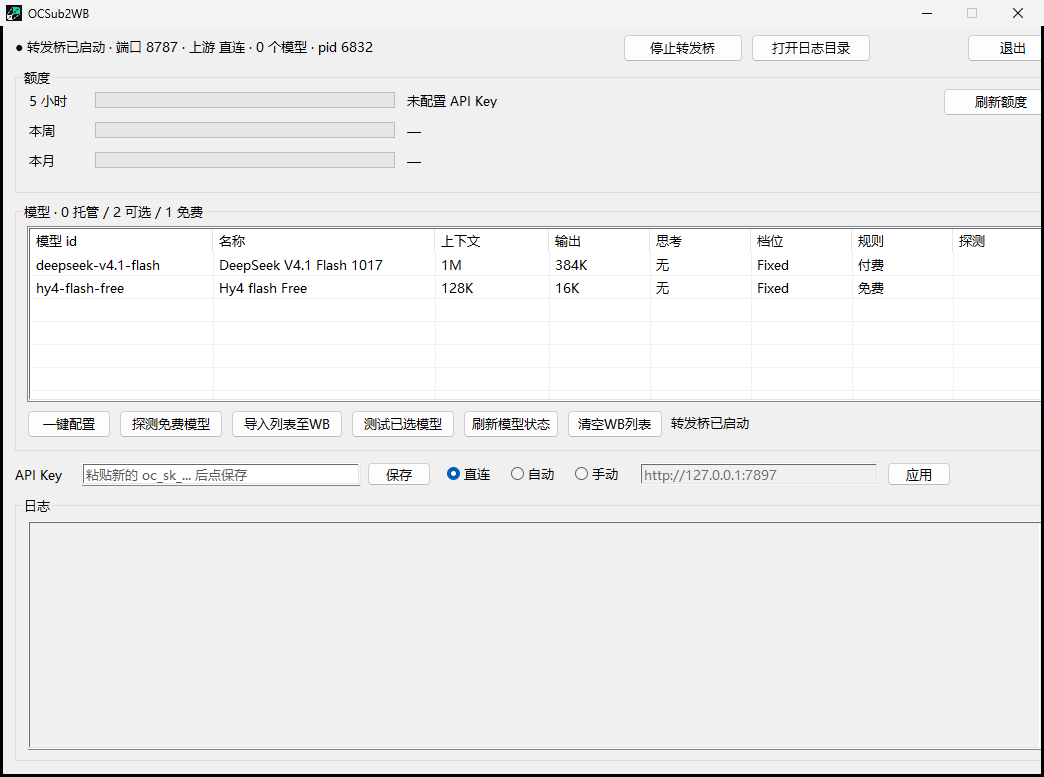
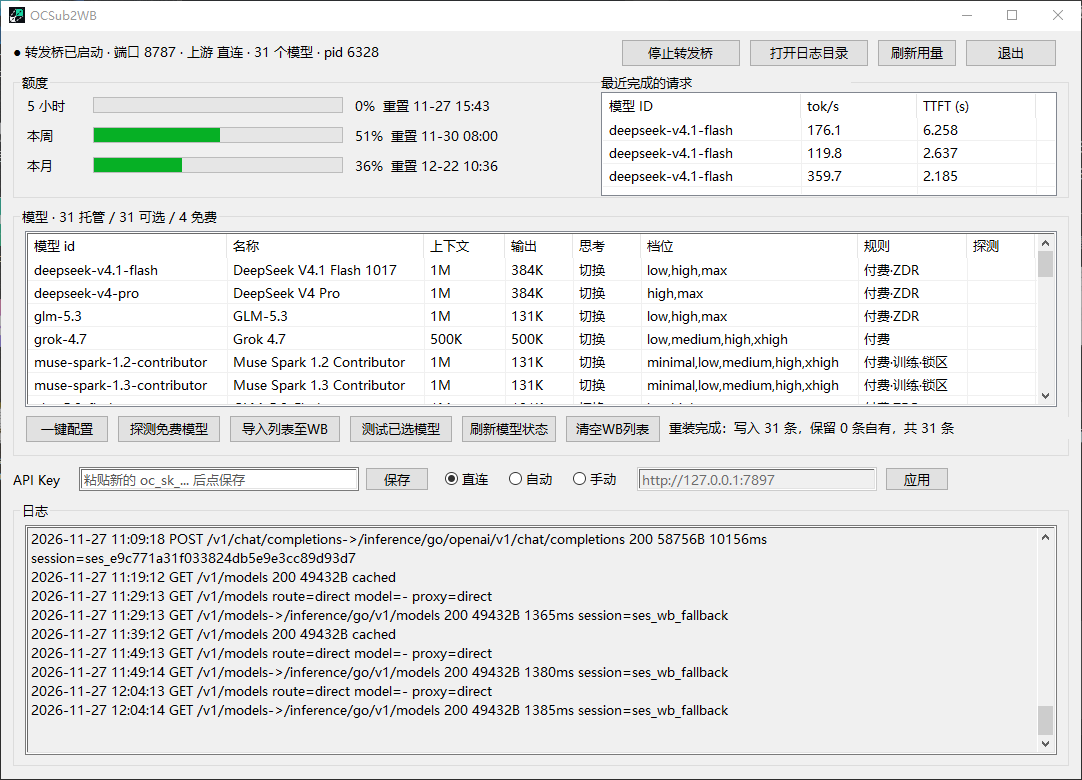
Refresh v2.1.0 documentation and runtime screenshot
Rewrite the quick start, add an operating guide, and record the toolchain shipped in the Windows release. Replace the panel preview with the user-supplied runtime capture.

Changed region(s): [[0.0, 0.0, 1.0, 1.0]]

diff --git a/README.md b/README.md
@@ -1,114 +1,52 @@
 <div align="center">
-  <img src="./assets/icon.png" width="88" height="88" alt="">
+  <img src="./assets/icon.png" width="80" height="80" alt="">
   <h1>OCSub2WB</h1>
-  <p>在 Windows 上，把 WorkBuddy 接到你的 OpenCode Go 订阅。</p>
-  <p>
-    <a href="https://github.com/869Nitro/OCSub2WB/releases/latest"><strong>下载 Windows x64 便携包</strong></a>
-    &nbsp;·&nbsp; <a href="#快速开始">快速开始</a>
-    &nbsp;·&nbsp; <a href="#常见问题">常见问题</a>
-  </p>
+  <p>在 Windows 上，将 WorkBuddy 的自定义模型接入自己的 OpenCode Go 订阅。</p>
+  <p><a href="https://github.com/869Nitro/OCSub2WB/releases/latest"><strong>下载 Windows x64 便携包</strong></a> · <a href="#快速开始">快速开始</a> · <a href="https://github.com/869Nitro/OCSub2WB/blob/main/docs/usage.md">使用手册</a></p>
 </div>
 
 ## 快速开始
 
-准备好 WorkBuddy 和自己的 [OpenCode Go API Key](https://opencode.ai/docs/console/go/)。面板可以使用 WorkBuddy 自带的 Python。WorkBuddy **5.11.3.43806934-ecace0f7** 已通过转发验证。
+准备 Windows x64、已安装并登录的 WorkBuddy，以及自己的 OpenCode Go API Key。面板可以使用 WorkBuddy 自带的 Python，项目已用 WorkBuddy 5.11.3 验证转发。[OpenCode Go 订阅与 Key](https://opencode.ai/docs/console/go/#how-it-works)
 
-1. **打开 WorkBuddy 并登录。**
-2. **下载并解压 ZIP。** 打开其中的 `OCSub2WB.exe`。两个 `.py` 文件和 EXE 放在同一目录。
-3. **点「启动转发桥」。** 等面板显示转发桥已启动，粘贴 OpenCode Go Key，点「保存」。如果访问 OpenCode 需要本机代理，先设置[上游代理](#上游代理)。
-4. **点「一键配置」。** 回到 WorkBuddy，在「设置 → 模型」选择 OpenCode 分组里的模型，发一条消息。
+1. 在 GitHub 发布页的 **Assets** 中下载 `OCSub2WB-v2.1.0-win64.zip`，完整解压到可写目录。[v2.1.0 发布页](https://github.com/869Nitro/OCSub2WB/releases/tag/v2.1.0)
+2. 打开 WorkBuddy，再运行 `OCSub2WB.exe`。让 EXE 和包内的两个 `.py` 文件保持在同一目录。
+3. 在面板点 **启动转发桥**，等状态显示已启动。把 OpenCode Go Key 粘贴到 **API Key** 输入框，点 **保存**。需要本机 HTTP 代理时，先设置上游代理并点 **应用**。[上游代理说明](https://github.com/869Nitro/OCSub2WB/blob/main/docs/usage.md#上游代理)
+4. 点 **一键配置**，在 WorkBuddy 的 **设置 → 模型** 中选择导入的 OpenCode 模型，发一条消息。成功完成的模型请求会出现在面板右上方。
 
-一键配置会填好接口地址。想先测某个模型，可以在 OCSub2WB 中选中它，再点「测试已选模型」。ZIP 的 SHA-256 校验文件也在[发布页](https://github.com/869Nitro/OCSub2WB/releases)。
+面板为 WorkBuddy 写入的接口地址是 `http://127.0.0.1:8787/v1`。运行时保持转发桥开启。点击右上角 **×** 会收进系统托盘，点击 **退出** 并确认会同时停止转发桥。
+
+## 运行界面
 
 <p align="center">
-  <img src="./assets/panel.png" width="880" alt="OCSub2WB 面板，显示转发桥状态和两个示例模型">
+  <img src="./assets/panel.png" width="980" alt="OCSub2WB v2.1.0 实际运行界面，显示使用额度、最近三条模型请求、模型目录和日志">
 </p>
 
-## 系统还原后
+这是 v2.1.0 实际运行时的截图。额度、模型目录和性能数字是当时的读数，随订阅、上游目录和请求而变化。
 
-重新安装并登录 WorkBuddy。便携目录还在的话，打开 OCSub2WB，点「启动转发桥」和「一键配置」。`.env` 还在就会沿用原来的 Key 和代理设置。便携目录或 `.env` 丢了，重新解压或填一次 Key 即可。
+## 最近完成的请求
 
-## 上游代理
+面板保留最近 **3 条**成功完成的模型请求，最新完成的一条在最上方。同一模型多次请求会各占一行。指标以单次转发请求为单位，WorkBuddy 的一轮对话可以有多次模型调用。
 
-WorkBuddy 连接转发桥的地址是 `http://127.0.0.1:8787/v1`。面板里的上游代理用于转发桥访问 OpenCode Go。用 Clash 等本机代理时，填它实际提供的 HTTP 地址，例如 `http://127.0.0.1:7897`，点「应用」。
-
-| 模式 | 模型请求走哪里 |
+| 指标 | 看什么 |
 | --- | --- |
-| 直连 | 直接访问 OpenCode Go |
-| 自动 | 标记为锁区的模型走上游代理，其余模型直连 |
-| 手动 | 所有模型请求都走上游代理 |
+| `TTFT (s)` | 从转发桥发起上游请求到收到首段非思考输出的秒数。正文和工具调用内容都算输出。 |
+| `tok/s` | 按扣除已知思考 token 的输出用量，估算首段到末段之间的生成速度。首段等待和流末的用量事件不计入这段耗时。 |
 
-## 日常操作
+非流式请求会显示模型 ID，两个流式指标显示 `—`。如果流式响应缺少必要的用量数据，仍可能显示 TTFT。具体计算和空值条件见[指标说明](https://github.com/869Nitro/OCSub2WB/blob/main/docs/usage.md#最近请求指标)。
 
-| 操作 | 用途 |
+## 接下来怎么用
+
+| 需要 | 操作 |
 | --- | --- |
-| 一键配置 | 从目录重建托管模型，包含免费模型。已有自定义模型会保留。 |
-| 探测免费模型 | 查看当前工作区能用哪些免费模型。 |
-| 导入列表至WB | 导入付费聊天模型和刚刚探测成功的免费模型。 |
-| 测试已选模型 | 单独测一个模型的普通对话和流式对话，最多发两次请求。 |
-| 刷新模型状态 | 更新模型表和导入标记。 |
-| 清空WB列表 | 备份后移除托管模型。 |
+| 查看 5 小时、本周和本月的额度 | 点顶部 **刷新用量**。 |
+| 确认免费模型是否可调用 | 点 **探测免费模型**，再用 **导入列表至WB** 导入付费聊天模型和本次探测通过的免费模型。 |
+| 单独检查一个模型 | 在模型列表选中它，再点 **测试已选模型**。 |
+| 调整窗口大小 | 拖动窗口边缘，或用标题栏的最大化和还原按钮。 |
+| 查找失败原因 | 点 **打开日志目录**，也可以先看[常见问题](https://github.com/869Nitro/OCSub2WB/blob/main/docs/usage.md#常见问题)。 |
 
-顶部的「刷新用量」可手动更新额度。额度区右侧显示最近 3 条成功完成的模型请求，包括模型 ID、输出速度和 TTFT。并发请求按完成顺序更新。模型 ID 过长时以省略号截断，数字列保留完整数值。
-
-- **TTFT (s)** 是转发桥发起上游请求到收到首段非思考输出的秒数。正文和工具调用内容都算输出。
-- **tok/s** 估算首段到末段输出之间的生成速度，使用扣除思考后的输出 token 数。首段等待、流末用量事件和结束标记不计入耗时。只有一段输出、上游未提供用量或无法区分思考用量时，该项显示「—」。
-- 非流式响应会显示模型 ID，两项流式指标显示「—」。模型自测不参与统计，转发桥重启后清空。
-
-拖动窗口边缘可调整大小，最小尺寸为面板的默认大小。点右上角的最大化按钮可铺满 Windows 桌面工作区，再点一次可还原窗口。
-
-点窗口右上角的 × 会把面板收到系统托盘。要一起关闭面板和转发桥，点「退出并停止转发桥」。
-
-## 常见问题
-
-| 现象 | 怎么处理 |
-| --- | --- |
-| 提示找不到 Python 或脚本 | 先打开 WorkBuddy。确认两个 .py 文件都在 EXE 旁边，缺了就重新解压。 |
-| 提示 8787 已被占用 | 关闭占用该端口的程序，再启动转发桥。 |
-| WorkBuddy 无法连接 | 确认转发桥已启动，重新点「一键配置」，再在 WorkBuddy 里选一次模型。 |
-| Key 保存失败或收到 403 | 检查 Key 所属的工作区、订阅和区域设置。如果访问 OpenCode 需要代理，确认面板中的上游代理可用。 |
-| 免费模型要求 opt-in | 到 OpenCode 工作区查看该模型的训练选项。只有接受对应的数据规则时才开启。 |
-| 面板提示配置损坏 | 在面板确认从备份恢复，再点「一键配置」。原文件会以 `models.json.corrupt.<时间>` 保留。 |
-
-排查对话问题时，可以在面板打开日志。日志记录请求的路由、状态码和耗时。
-
-## Key 和请求发到哪里
-
-Key 以明文保存在便携目录的 `.env` 与 WorkBuddy 的自定义模型条目中。模型备份位于 `cache/backup/`，也可能包含 Key。分享配置目录前先移除这些文件。
-
-对话和 Key 由转发桥发给 OpenCode Go。训练、留存与区域规则取决于工作区设置和所用模型。详见 [OpenCode Go 的隐私说明](https://opencode.ai/docs/console/go/#privacy)。
-
-<details>
-<summary>配置文件和命令行</summary>
-
-| 位置 | 内容 |
-| --- | --- |
-| 便携目录的 `.env` | Key、上游代理和模型名前缀。参考 [`.env.example`](./.env.example)。 |
-| `%USERPROFILE%\.workbuddy\models.json` | WorkBuddy 的自定义模型列表。 |
-| 便携目录的 `cache/` | 日志、备份、控制令牌和转发桥 PID。 |
-
-写模型配置前会先备份。备份失败时保留原配置。外部地址的自定义模型会保留，同一模型 ID 已被它占用时也保留原条目。
-
-使用 Python 脚本时，`--port` 可以选择监听端口。一键配置会写入对应端口。Windows 面板固定使用 `8787`。
-
-模型名称默认带 [OC] 或 [OC-FREE]，模型 ID 取自 OpenCode Go 目录。若在旧 .env 中设置过模型名前缀或代理，转发桥会继续读入这些值。
-
-</details>
-
-<details>
-<summary>从源码构建</summary>
-
-准备 MinGW-w64 和 Python 3.10 或更新版本。让 g++ 和 windres 可从 PATH 找到，或设置 MINGW 为工具链的 bin 目录。
-
-```cmd
-panel\build.bat --ci
-python -B -m unittest discover -s tests
-```
-
-GitHub Actions 在 Windows 上运行离线测试并构建便携包。标签构建同时生成 ZIP 与 SHA-256，供 Release 草稿使用。源码和工作流见[项目仓库](https://github.com/869Nitro/OCSub2WB)。
-
-</details>
+升级、上游代理、备份恢复、配置文件和源码构建的详细步骤见[使用手册](https://github.com/869Nitro/OCSub2WB/blob/main/docs/usage.md)。
 
 ## 许可
 
-OCSub2WB 是独立项目。自有代码和文档采用 [MIT](./LICENSE)。便携包中的运行库见[第三方许可](./THIRD-PARTY-NOTICES.md)。
+OCSub2WB 是独立项目。项目代码与文档采用 [MIT](./LICENSE)，便携包所含运行库见[第三方许可](./THIRD-PARTY-NOTICES.md)。

diff --git a/docs/usage.md b/docs/usage.md
@@ -1,0 +1,106 @@
+# OCSub2WB 使用手册
+
+本手册对应 **v2.1.0**。首次安装可按仓库首页的[快速开始](../README.md#快速开始)操作，完整面板见[实际运行截图](../README.md#运行界面)。
+
+## 下载、升级与恢复
+
+从发布页下载 Windows x64 便携 ZIP，完整解压到有写入权限的目录，再运行 `OCSub2WB.exe`。两个 Python 脚本应与 EXE 放在一起。包内的脚本使用 Python 标准库，面板会优先查找 WorkBuddy 自带的 `pythonw.exe`，再查找系统 `PATH` 上的版本。[下载 v2.1.0](https://github.com/869Nitro/OCSub2WB/releases/tag/v2.1.0)
+
+升级时，先在旧面板点 **退出** 并确认停止转发桥。把新包解压到新目录，再把旧便携目录中的 `.env` 复制过去以沿用 Key、上游代理和模型名称前缀。随后从新目录启动面板和转发桥，点一次 **一键配置**。
+
+系统还原或迁移到新的 Windows 环境后，重新安装并登录 WorkBuddy，再按上面的步骤启动转发桥。手头没有原来的 `.env` 时，在面板重新保存 Key 和代理配置，然后执行 **一键配置**。如要保留旧的模型配置备份，也可以保留旧目录的 `cache/backup/`。
+
+发布页上的 `.sha256` 文件记录 ZIP 的校验值。可以用 PowerShell 对下载的 ZIP 计算 SHA-256，并与校验文件的第一列比较。
+
+```powershell
+Get-FileHash -Algorithm SHA256 .\OCSub2WB-v2.1.0-win64.zip
+```
+
+## 启停和窗口
+
+- **启动转发桥**会开启本地服务。面板固定使用端口 `8787`，WorkBuddy 的接口基址为 `http://127.0.0.1:8787/v1`。
+- 窗口的 **×** 会把面板收进系统托盘，转发继续运行。点托盘图标可以重新打开面板。
+- 面板的 **退出** 和托盘菜单的 **退出并停止转发桥** 都会先询问再关闭服务。进行中的模型请求会中断。
+- 面板支持拖边缩放、最大化和还原，默认尺寸是缩放下限。Windows 的显示工作区变化后，普通窗口会重新检查位置和尺寸。
+
+## 额度和模型
+
+**刷新用量**更新面板左上角的 5 小时、本周和本月额度及重置时间。用量来自 OpenCode Go 订阅。模型可用性、额度限制和数据规则以自己的 OpenCode 工作区为准。[OpenCode Go 额度说明](https://opencode.ai/docs/console/go/#usage-limits)
+
+| 面板按钮 | 行为 |
+| --- | --- |
+| **一键配置** | 按最新目录重建 OCSub2WB 托管的聊天模型，包括目录中标记为免费的条目。目录里的免费标记和当前账号的可用性需要分别核对。 |
+| **探测免费模型** | 向目录中的免费模型发起实际探测，查看当前工作区的可用性及区域、训练选项等限制。 |
+| **导入列表至WB** | 重建托管列表，包含付费聊天模型和本次探测通过的免费模型。 |
+| **测试已选模型** | 检查选中模型的普通对话和流式对话。最多发出两条模型测试请求。 |
+| **刷新模型状态** | 更新面板的模型目录和导入状态。 |
+| **清空WB列表** | 确认后备份并移除 OCSub2WB 托管的条目。 |
+
+默认导入名称带 `[OC]` 或 `[OC-FREE]` 前缀。同步模型会保留独立配置的自定义条目。如果自定义模型已使用同一个模型 ID，现有条目优先。覆盖现有模型配置前会先备份，备份失败则保留原配置。
+
+## 最近请求指标
+
+右上角显示最近 **3 条成功完成**的模型请求，并发时按完成时间排序。记录按桥接请求计数，可以同时来自多个 WorkBuddy 会话，也可以在同一轮对话中出现多次。模型自测排除在外，重启转发桥后重新开始统计。
+
+| 字段 | 计算方式 |
+| --- | --- |
+| **模型 ID** | 请求里使用的模型标识。窗口较窄时，过长的 ID 会以省略号结尾。 |
+| **TTFT (s)** | 从转发桥开始上游请求，到收到首段非思考输出的秒数。正文、拒答文本和工具调用输出都可作为起点。角色占位、思考片段和用量事件不作为起点。 |
+| **tok/s** | 流式输出至少分两次到达且用量可用时，按 `(非思考输出 token 数 − 1) ÷ (末段输出时间 − 首段输出时间)` 估算。模型输入、首段前的等待和末尾用量事件不参与此项计算。 |
+
+若上游给出了思考用量明细，转发桥据此扣除思考 token。已观察到思考但上游未给出可分开的用量时，速率显示 `—`。缺少用量或输出一次到达也会显示 `—`，只要有可识别的流式输出，TTFT 仍可显示。非流式请求的两项流式指标都显示 `—`。[OpenCode 用量字段](https://opencode.ai/docs/console/api/inference/#cost)
+
+## 上游代理
+
+上游代理设置控制转发桥**访问 OpenCode Go**时的网络路径。填写代理程序实际监听的 **HTTP** 地址，例如 `http://127.0.0.1:7897`，选择模式后点 **应用**。
+
+| 模式 | 模型请求的路径 |
+| --- | --- |
+| **直连** | 转发桥直接访问 OpenCode Go。 |
+| **自动** | 目录标记为锁区的模型走上游代理，其余模型直连。 |
+| **手动** | 所有模型请求经配置的上游代理转发。 |
+
+## 常见问题
+
+| 现象 | 处理方式 |
+| --- | --- |
+| 面板提示找不到 Python 或脚本 | 先打开 WorkBuddy，再确认 `OCSub2WB.exe` 和两个 `.py` 文件在同一目录。也可确认 `PATH` 上的 Python 3.10 或更高版本包含 `pythonw.exe`。 |
+| 提示端口 8787 已被占用 | 确认是否仍有旧版转发桥在运行，先从旧面板正常退出，再从新版启动。 |
+| WorkBuddy 无法连接或看不到新模型 | 确认转发桥已启动，保存 Key 后重跑 **一键配置**，回到 WorkBuddy 的模型设置重新选择模型。 |
+| Key 保存失败，或收到 401／403 | 核对 Key、订阅工作区和地区设置。需要上游代理时，确认填写的是正确的 HTTP 端口且已应用。 |
+| 免费模型提示需要训练 opt-in | 查看 OpenCode 工作区对该模型的训练选项，按自己的数据规则决定是否启用。 |
+| 面板提示 `models.json` 已从备份只读加载 | 确认从备份恢复后再重试同步。被替换的原文件会以 `models.json.corrupt.<时间>` 保留。 |
+| 最近请求的速度或 TTFT 显示 `—` | 核对是否为流式请求，以及上游是否分批传回输出和用量。可对照本页的[指标口径](#最近请求指标)。 |
+
+可从 **打开日志目录** 查看请求路径、路由、状态码与耗时。排查时可先对照出问题请求前后的几行。
+
+## 本地文件与数据
+
+| 路径 | 用途 |
+| --- | --- |
+| 便携目录的 `.env` | 保存 OpenCode Go Key、上游代理和模型名称前缀。字段示例见 [`.env.example`](../.env.example)。 |
+| `%USERPROFILE%\.workbuddy\models.json` | WorkBuddy 的自定义模型列表。 |
+| 便携目录的 `cache/logs/` | 转发日志。 |
+| 便携目录的 `cache/backup/` | 写入模型配置前的备份。 |
+| 便携目录的 `cache/api.token`、`cache/proxy.pid` | 本机面板控制令牌以及转发桥进程信息。 |
+
+Key 以明文保存在 `.env` 和写入 WorkBuddy 的托管模型条目中。模型备份也可能包含 Key。分享日志或配置前，先检查其中的 Key、控制令牌和本机信息。
+
+转发桥监听本机回环地址。模型请求和认证信息由转发桥发往 OpenCode Go，并在启用上游代理时走选定的路径。上游的数据处理规则见[OpenCode Go 隐私说明](https://opencode.ai/docs/console/go/#privacy)。
+
+## 命令行与构建
+
+Windows 面板使用 `8787`。单独启动转发脚本时可以用 `--port` 自选监听端口，并将客户端基址指向对应端口。命令行参数见脚本自带的帮助。
+
+```powershell
+python -B .\opencode-go-proxy.py --help
+```
+
+构建 Windows 面板需 MinGW-w64 和 Python 3.10 或更高版本。将 `g++`、`windres` 放到 `PATH`，或将 `MINGW` 指向工具链的 `bin` 目录，再从仓库根目录运行：
+
+```powershell
+python -B -m unittest discover -s tests
+.\panel\build.bat --ci
+```
+
+构建后的 EXE 位于仓库根目录。用两个 Python 脚本与 EXE 从同一目录启动。GitHub Actions 会运行离线测试、校验 Windows x64 包并测试解压后的面板。[构建工作流](../.github/workflows/build-release.yml)

diff --git a/THIRD-PARTY-NOTICES.md b/THIRD-PARTY-NOTICES.md
@@ -1,11 +1,19 @@
-# 第三方许可
+# 第三方组件与许可
 
-OCSub2WB 的自有代码和文档采用 [MIT](./LICENSE)。Windows 便携包中的 OCSub2WB.exe 静态链接了以下运行库。构建日志记录使用的工具链版本。
+OCSub2WB 项目的代码与文档采用 [MIT](./LICENSE)。本页列出 **v2.1.0 Windows x64 便携包**中由工具链静态链接的运行时代码，以及包内附带的许可文本。
 
-| 组件 | 随包提供的许可 |
-| --- | --- |
-| GCC 的 libgcc 和 libstdc++ | [GPLv3](./licenses/GPL-3.0.txt) 和 [GCC Runtime Library Exception 3.1](./licenses/GCC-Runtime-Library-Exception-3.1.txt)。来源为 [GCC 16.2.0](https://github.com/gcc-mirror/gcc/tree/releases/gcc-16.2.0)。 |
-| MinGW-w64 CRT 和头文件中的运行时代码 | [MinGW-w64 许可](./licenses/MinGW-w64-COPYING.txt)、[头文件声明](./licenses/MinGW-w64-headers-notices.txt)和 [CRT 声明](./licenses/MinGW-w64-runtime-notices.txt)。来源为 [MinGW-w64 14.0.0](https://github.com/mingw-w64/mingw-w64/tree/v14.0.0)。 |
-| MinGW-w64 winpthreads | [winpthreads 的版权与许可](./licenses/winpthreads-COPYING.txt)。 |
+## Windows 便携包
 
-便携包调用 Windows 系统 DLL。Python 和 WorkBuddy 来自用户的安装环境。OpenCode Go 是用户订阅的上游服务。
+v2.1.0 的发布资产来自 Windows GitHub Actions 中通过测试的 MSYS2 MINGW64 构建。下表的版本是此构建实际安装的包版本。[v2.1.0 构建记录](https://github.com/869Nitro/OCSub2WB/actions/runs/45934018054)
+
+| 组件 | 构建包版本 | 源码与附带文本 |
+| --- | --- | --- |
+| GCC 的 `libgcc` 和 `libstdc++` | `16.2.0-7` | [GCC 16.2.0 源码](https://github.com/gcc-mirror/gcc/tree/releases/gcc-16.2.0) · [GPLv3](./licenses/GPL-3.0.txt) · [GCC Runtime Library Exception 3.1](./licenses/GCC-Runtime-Library-Exception-3.1.txt) |
+| MinGW-w64 CRT 和头文件运行时代码 | `14.0.0.r598.ge3d18511f-1` | [MinGW-w64 源码版本](https://github.com/mingw-w64/mingw-w64/commit/e3d18511f) · [COPYING](./licenses/MinGW-w64-COPYING.txt) · [头文件声明](./licenses/MinGW-w64-headers-notices.txt) · [CRT 声明](./licenses/MinGW-w64-runtime-notices.txt) |
+| MinGW-w64 的 winpthreads | `14.0.0.r598.ge3d18511f-1` | [MinGW-w64 源码版本](https://github.com/mingw-w64/mingw-w64/commit/e3d18511f) · [winpthreads 版权及许可](./licenses/winpthreads-COPYING.txt) |
+
+便携包中的许可文件放在 `licenses/`。构建流程从实际使用的 MSYS2 工具链复制 MinGW-w64 相关原文。[构建与打包配置](https://github.com/869Nitro/OCSub2WB/blob/main/.github/workflows/build-release.yml)
+
+## 运行环境
+
+面板调用 Windows 提供的系统 DLL。Python 和 WorkBuddy 来自用户的安装环境。OpenCode Go 是用户自行订阅的上游服务。[OpenCode Go](https://opencode.ai/docs/console/go/)
